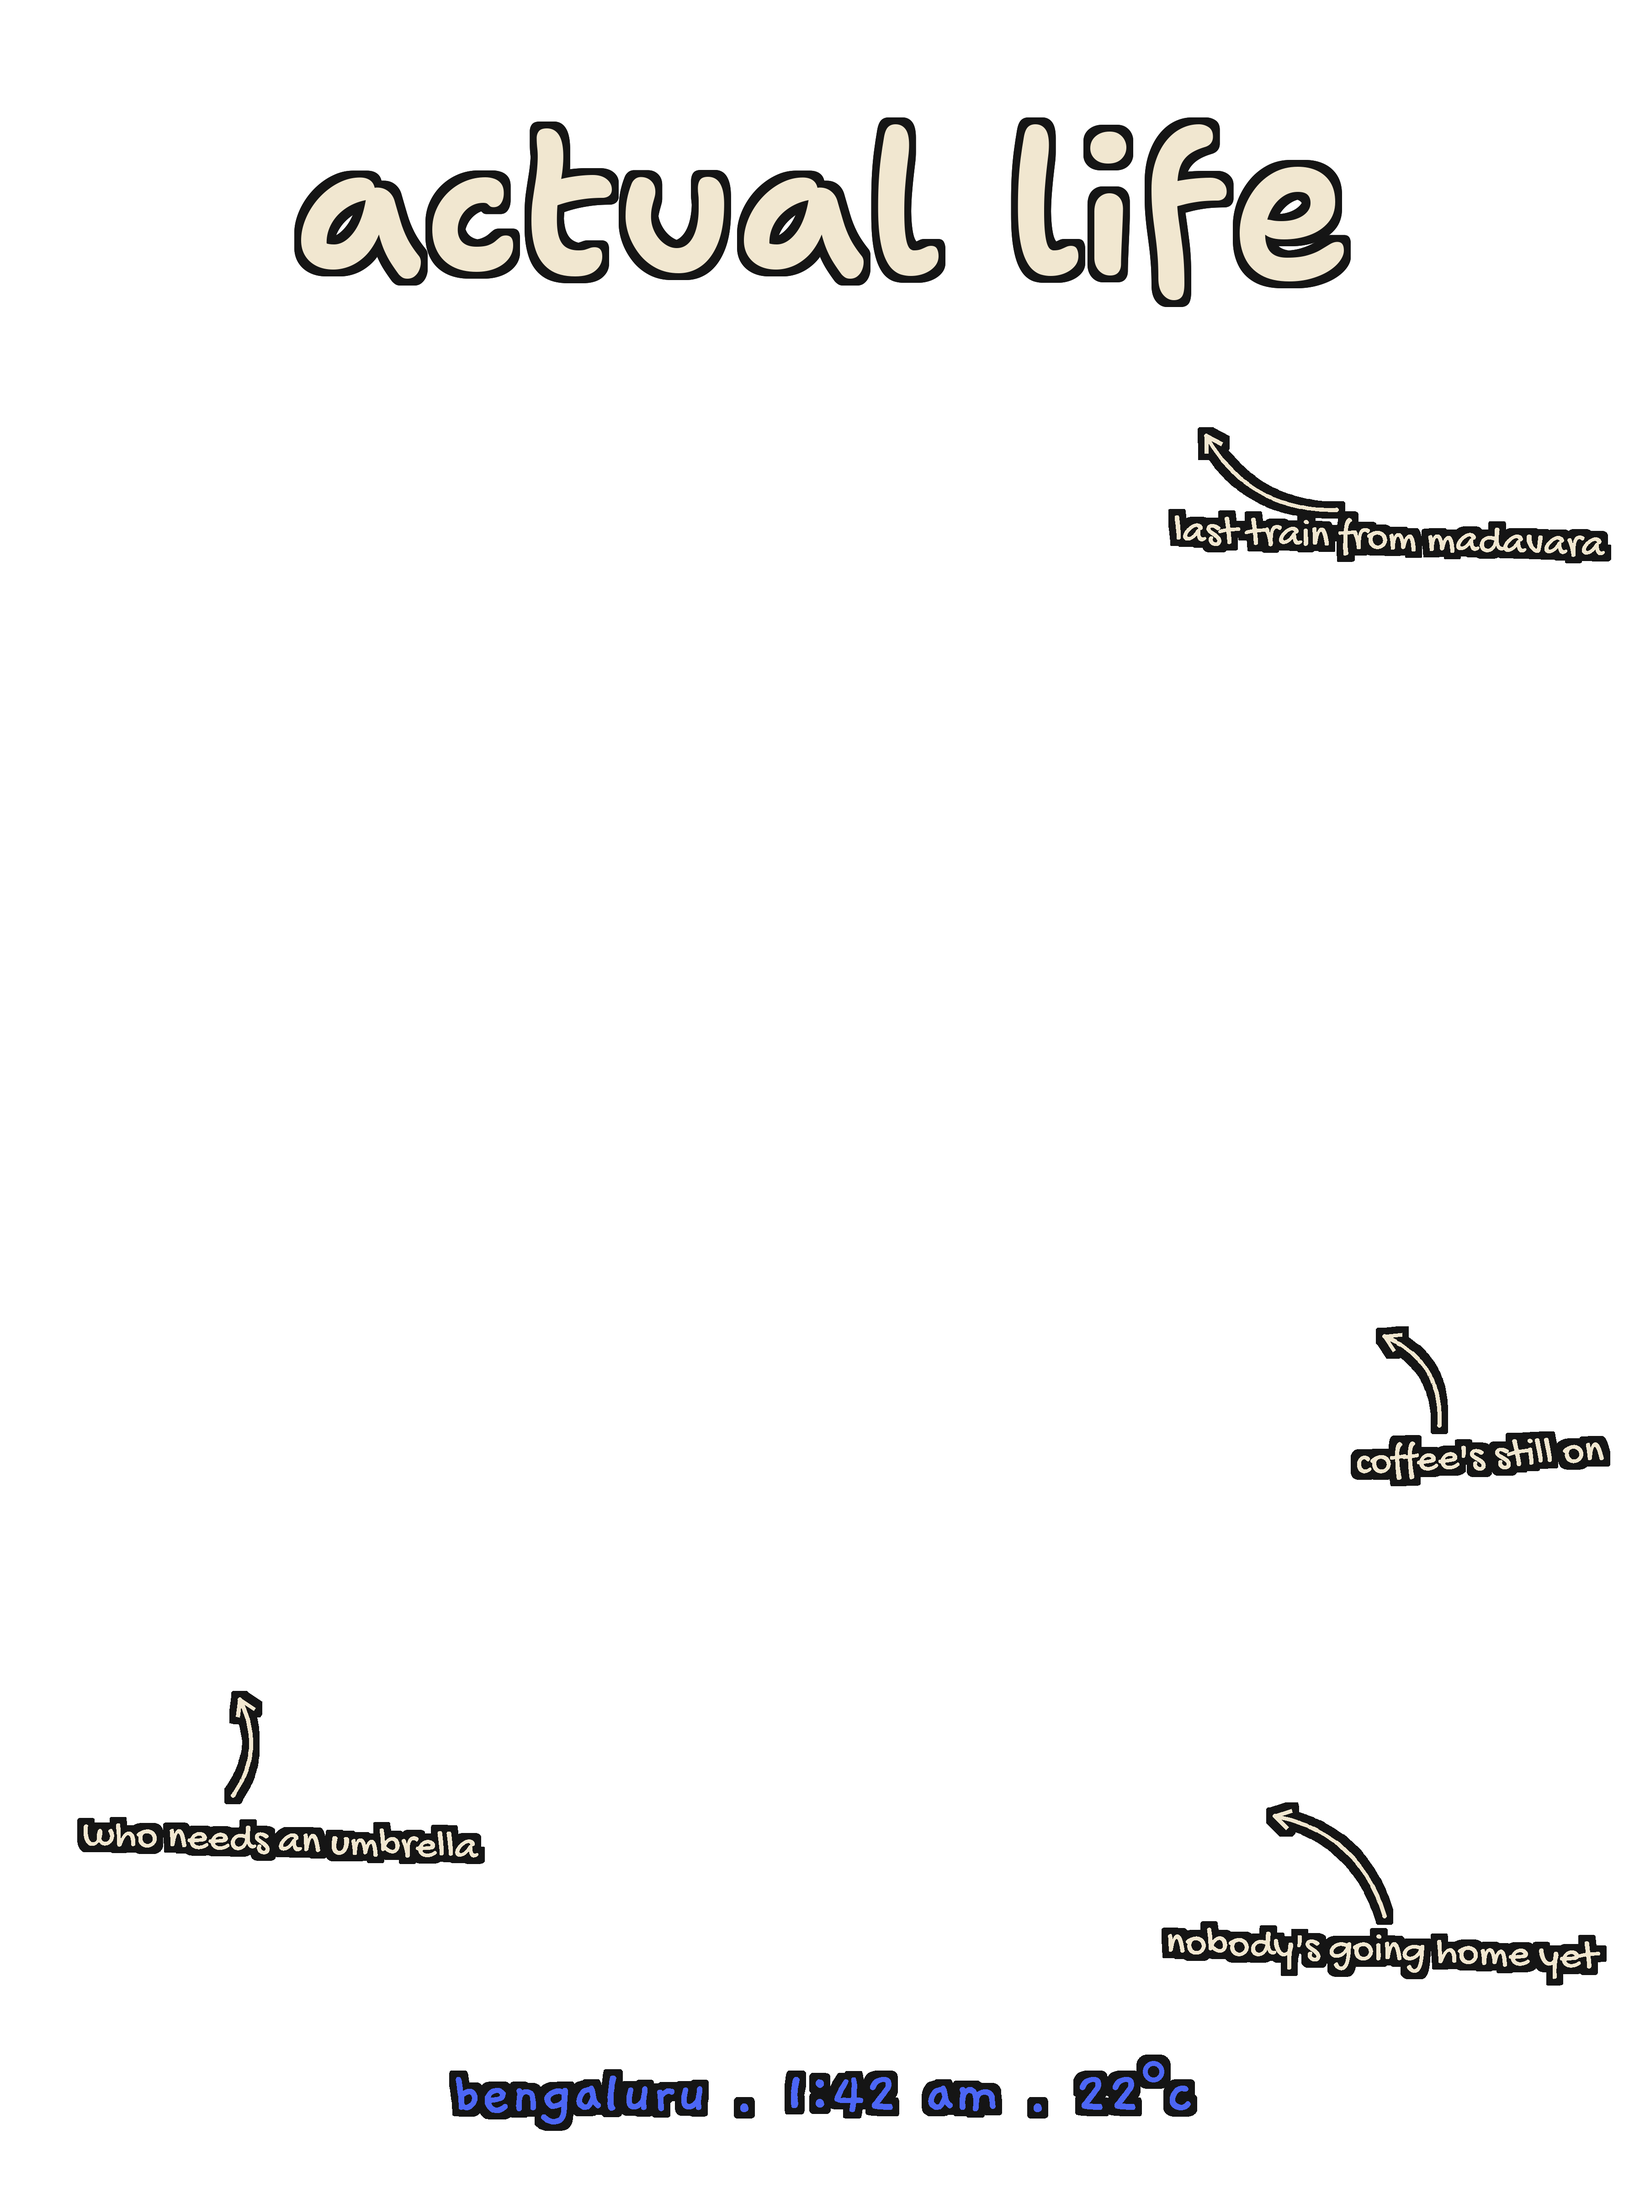
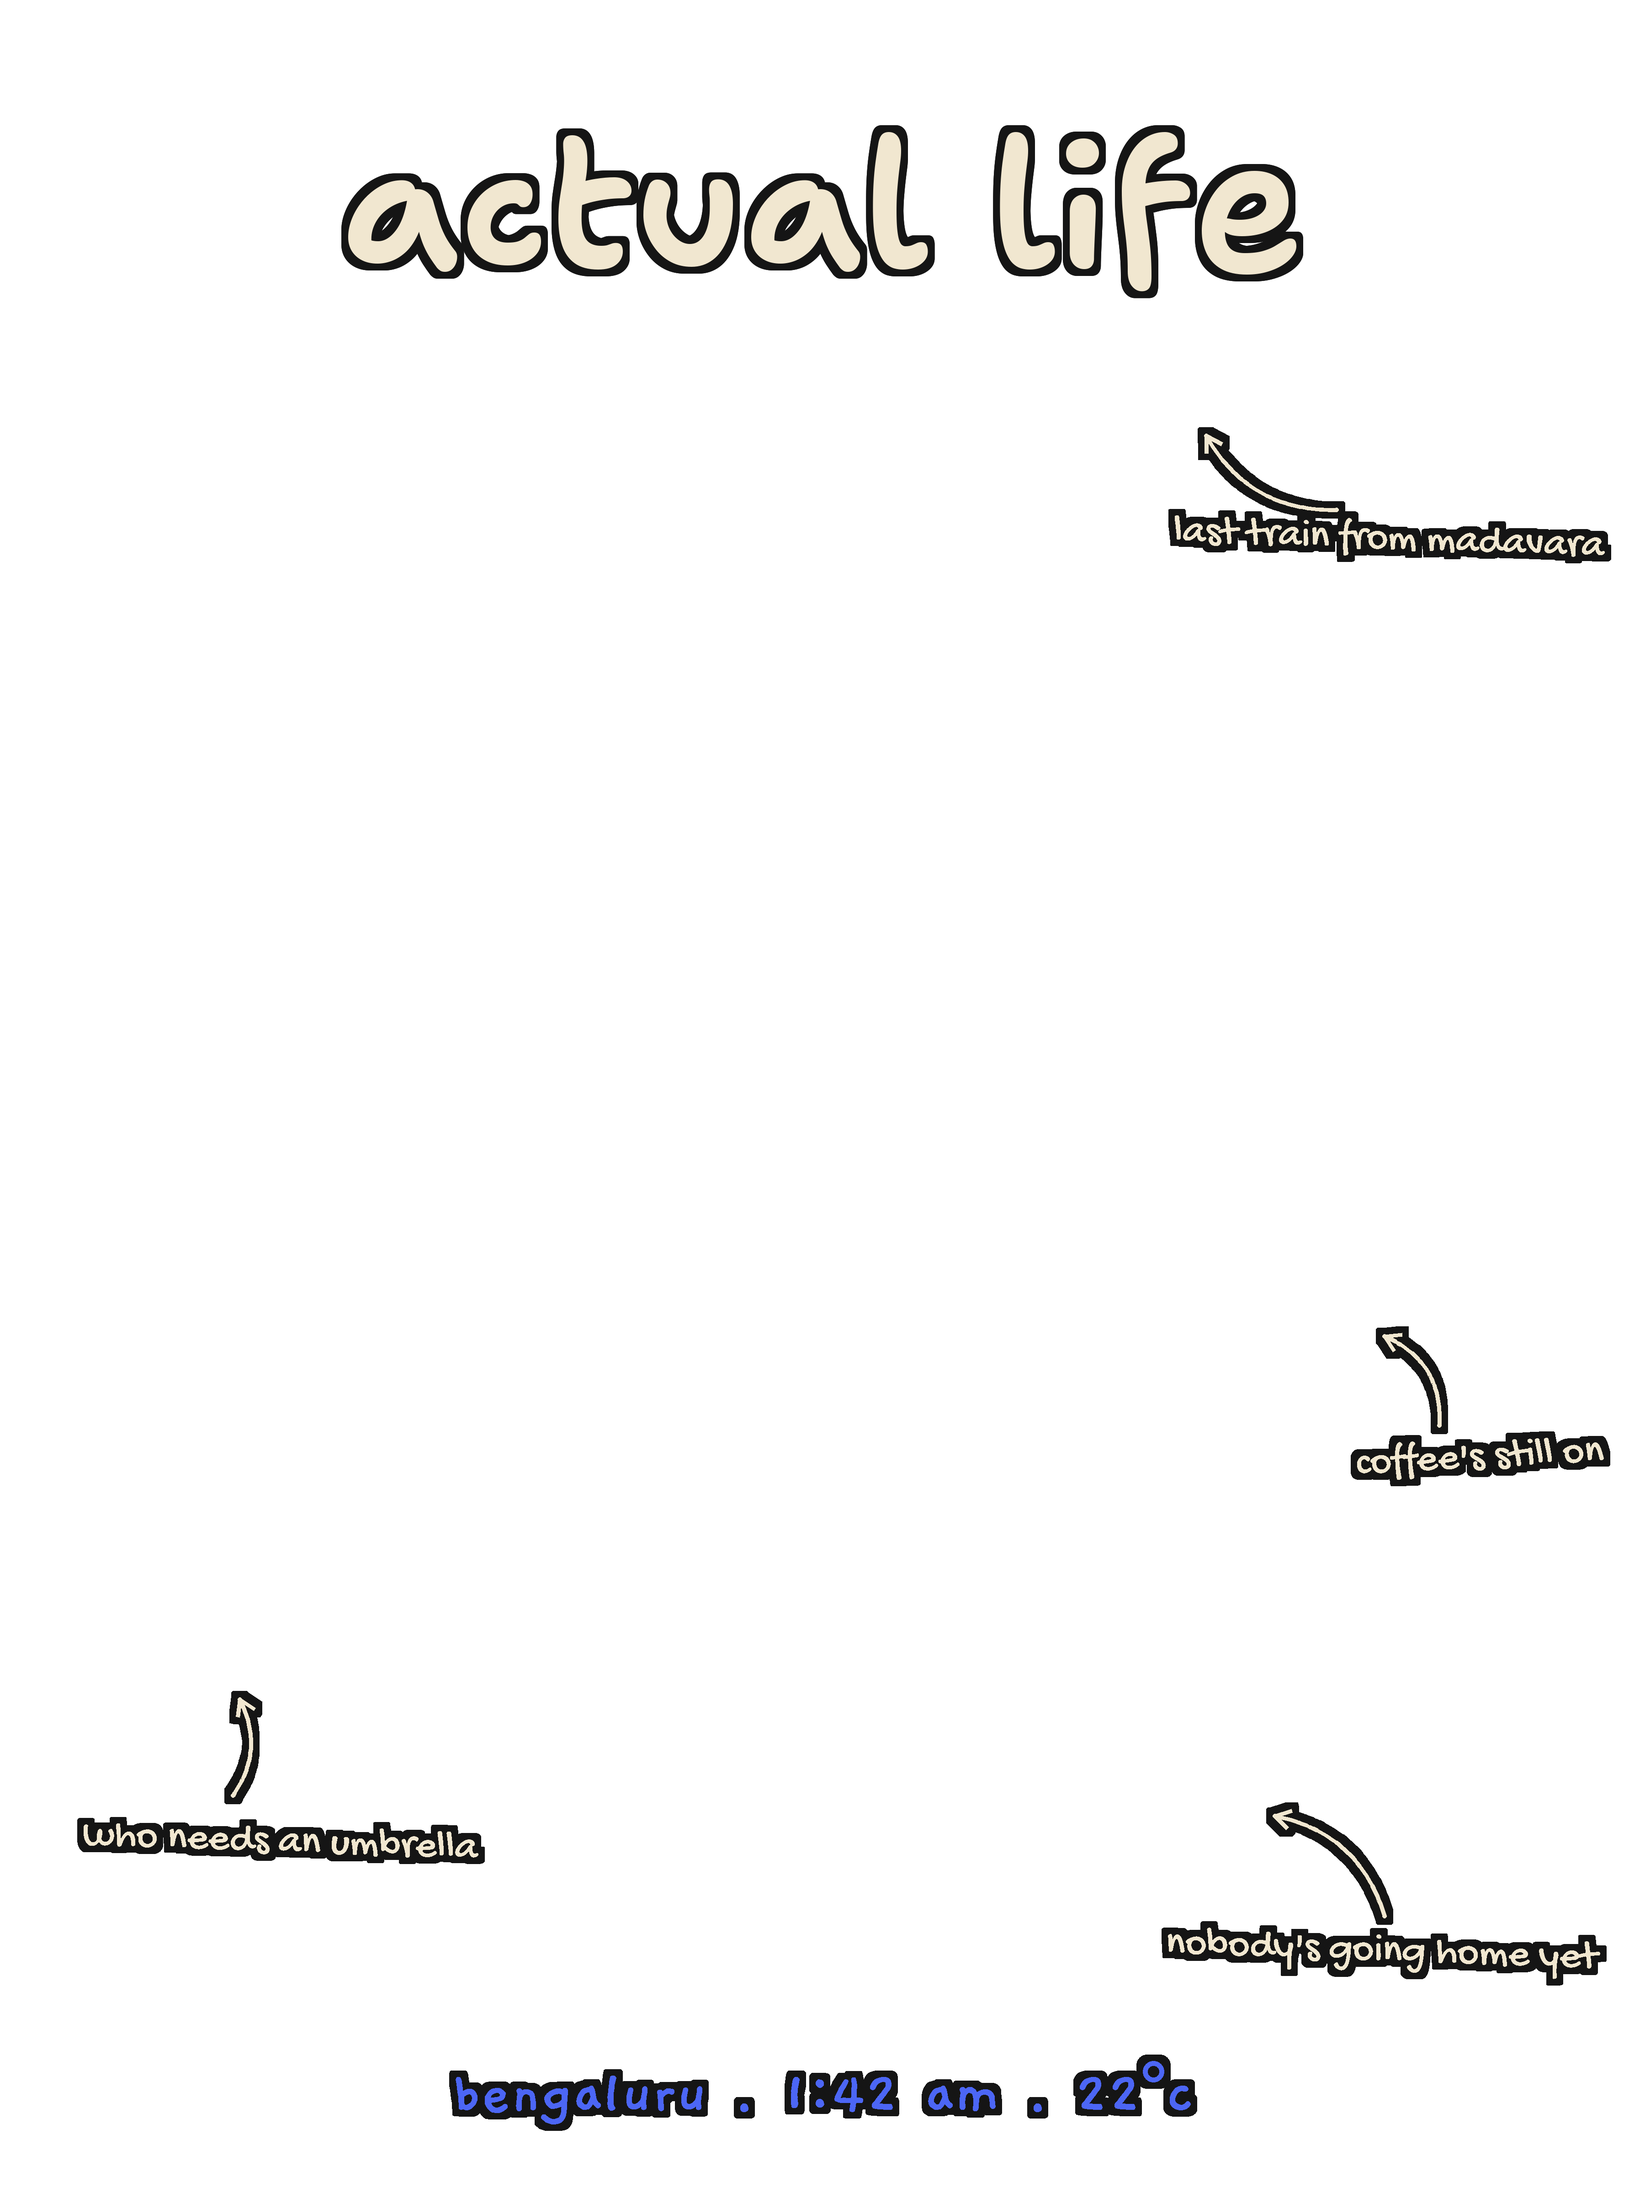
05 actual life: the title a touch smaller, so it sits clear between the trees

Changed region(s): [[0.1556, 0.0312, 0.84, 0.1562]]

diff --git a/pipeline/art/wordmark.py b/pipeline/art/wordmark.py
@@ -26,7 +26,7 @@ PRINTS = {
     "e": ("i am a party", (169, 39, 1032, 292), BLACK, ["ov-back-E-black-hi.png"]),
     "a": ("mumbai", (303, 53, 1023, 367), CREAM, ["ov-back-A-cream-hi.png", "ov-back-cream.png"]),
     "d": ("bengaluru", (217, 1196, 971, 1485), CREAM, ["ov-back-D-cream-hi.png"]),
-    "f": ("actual life", (200, 60, 1000, 250), BLACK, ["ov-back-F-black-hi.png"]),
+    "f": ("actual life", (236, 68, 964, 241), BLACK, ["ov-back-F-black-hi.png"]),
 }
 
 def font(px):
